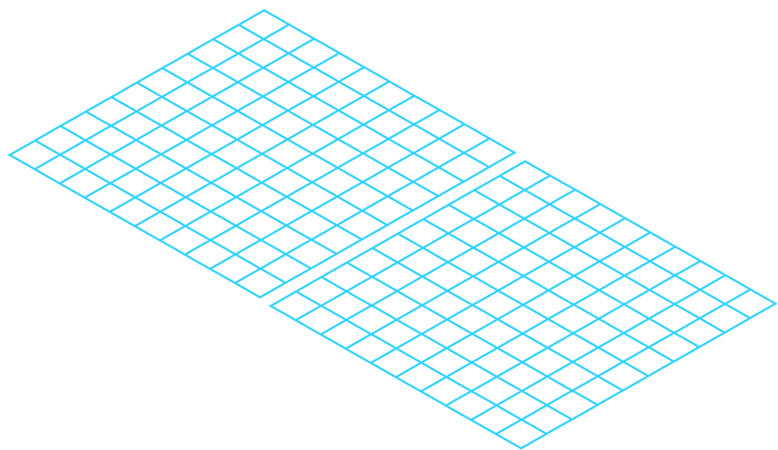
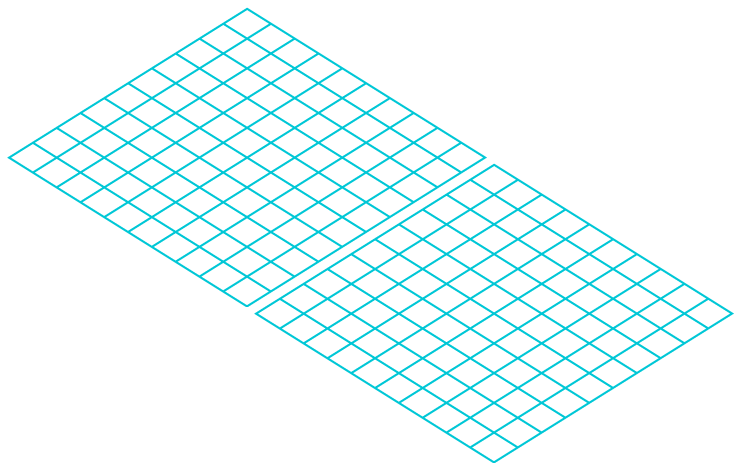
Alteração nas medidas da imagem do tabuleiro
Tabuleiro = 480px X 300px
Losango   = 48px X 30px

diff --git a/BatalhaNaval.c b/BatalhaNaval.c
@@ -264,9 +264,9 @@ int gameLoop(){
   }
   
   
-	gameTabuleiro[0].xCentro        = 52 ;
-	gameTabuleiro[0].yCentro        = 214;
-  gameTabuleiro[0].posX1          = 28;
+	gameTabuleiro[0].xCentro        = 53 ;
+	gameTabuleiro[0].yCentro        = 215;
+  gameTabuleiro[0].posX1          = 38;
 	gameTabuleiro[0].posX23         = 55;
 	gameTabuleiro[0].posX4          = 79;
   gameTabuleiro[0].posY14         = 215;
@@ -327,13 +327,13 @@ int gameLoop(){
     draw_trans_sprite(buffer,moveAgua,-(aguaMovimentoX / aguaMovimentoFator),0);
     
     
-    draw_trans_sprite(buffer,ilhaSuperiorEsquerda,0,0);
+    draw_trans_sprite(buffer,ilhaSuperiorEsquerda,0,-30);
     draw_trans_sprite(buffer,ilhaSuperiorDireita,525,0);
     draw_trans_sprite(buffer,ilhaInferiorEsquerda,0,395);
     draw_trans_sprite(buffer,ilhaInferiorDireita,515,375);
     
     draw_trans_sprite(buffer,rodapeOpcoes,0,458);
-    draw_trans_sprite(buffer,gradeTabuleiro,20,60);
+    draw_trans_sprite(buffer,gradeTabuleiro,30,40);
     
     textprintf_ex( buffer, font, 10, 30, makecol(255,0,0), -1, "Movimento X: %d", aguaMovimentoX);
 
